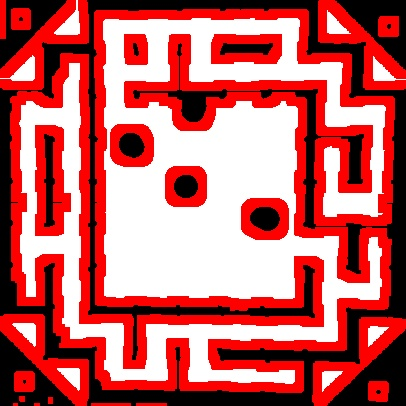
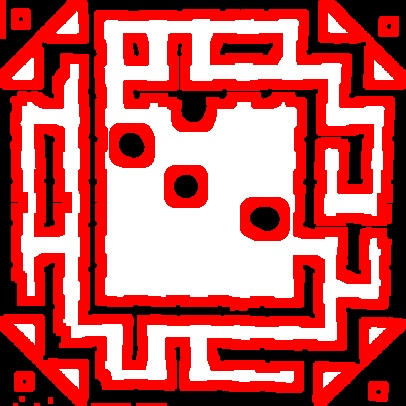
task 4

diff --git a/Task_4/Task_4_controller.hpp b/Task_4/Task_4_controller.hpp
@@ -21,7 +21,7 @@
 #define AXLEN 103 // Axle length
 
 // PID
-#define MBOUND 3 // error, millimetres
+#define MBOUND 4 // error, millimetres
 #define ABOUND 0.01 // error, radians
 #define IMU_ABOUND 1 // degrees, error
 
@@ -148,7 +148,7 @@ public:
           // ---------------------------
           // LIDAR wall correction
           // ---------------------------
-          const float MIN_WALL_DIST = 60.0;   // mm
+          const float MIN_WALL_DIST = 65.0;   // mm
           const float CORR_GAIN = 0.5;    // tuning factor
 
           uint16_t leftDist  = leftLidar.readMillimetres();
@@ -372,7 +372,7 @@ public:
       char op = tok[0];
       float val = atof(tok + 1);
       if (op == 'F') moveStraightOdomAvg(val);
-      else if (op == 'f') moveStraightOdom(val);
+      else if (op == 'f') moveStraightOdomAvg(val);
       else if (op == 'T') turnOdom(val);
       else {
         Serial.print("Unknown token: "); Serial.println(tok);

diff --git a/4.2 Continuous/continuous_path.py b/4.2 Continuous/continuous_path.py
@@ -15,8 +15,8 @@ cropY1, cropY2 = (69, 475)
 # cropY1, cropY2 = (88, 459)
 
 # occupancy map vars
-unsafe_kernel_size = 7
-unsafe_iterations = 3
+unsafe_kernel_size = 5
+unsafe_iterations = 5
 
 # Define 5x5 grid 
 tl = (2, 2) # top left of 5x5 grid
@@ -35,8 +35,8 @@ prm_total_nodes_count = 75
 prm_connection_radius = 100
 
 # start and end cell (0,0) ~ (8,8)
-start = (1,1)
-end = (3,7)
+start = (5,8)
+end = (1,4)
 
 PX_TO_MM = 180.0 / 44.5
 
